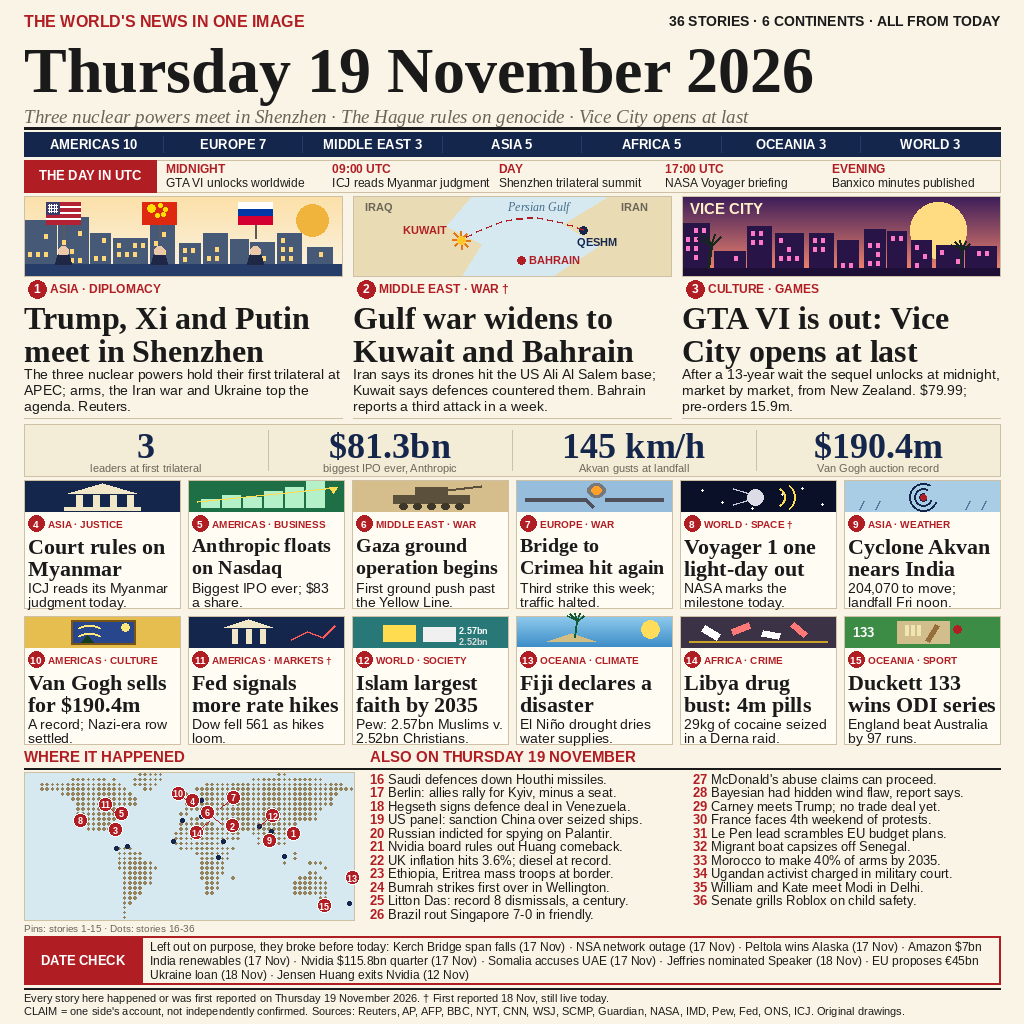
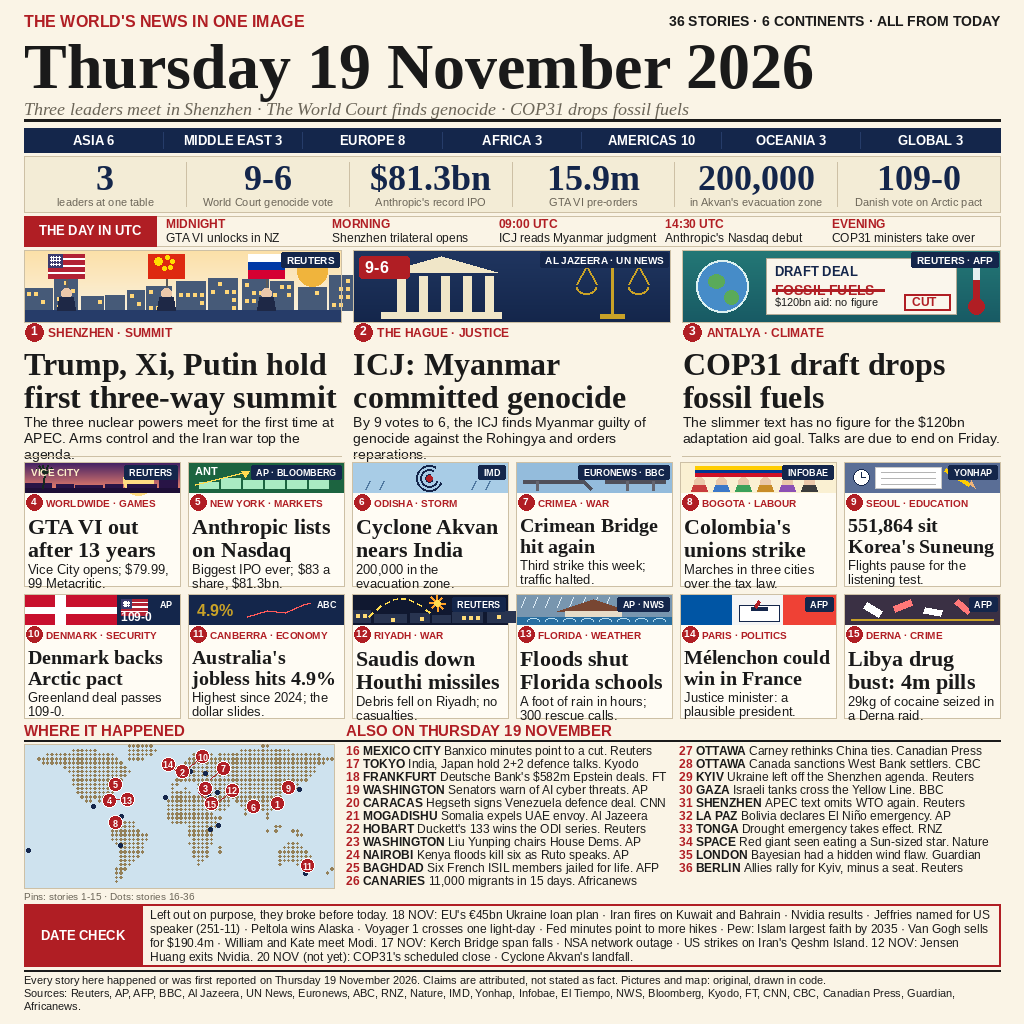
news-image-20261119 v4: rebuild from top-10 audit
36 stories, 15 pictured. COP31 and the ICJ verdict lead; GTA VI first
card. Stale 18 Nov features (Gulf/Kuwait lead, Voyager, Van Gogh, Fed
minutes, Pew) moved to DATE CHECK. New consensus cards: Colombia strike,
Suneung 551,864, Denmark/Greenland 109-0, Australia jobless 4.9%, Saudi
shoot-down, Florida floods, Melenchon, Libya bust. Numbers strip
3 / 9-6 / $81.3bn / 15.9m / 200,000 / 109-0. Per-story source tags.

diff --git a/main.py b/main.py
@@ -1,12 +1,14 @@
 #!/usr/bin/env python3
 """news-image-20261119 entry (Python 3.13, standard library only).
 
-The image is the entry.png beside this file, drawn for Thursday
-19 November 2026; the program copies it to /output/entry.png.
-The gate takes a whole PNG of at most 1 MiB and 1024 by 1024 pixels,
-and the judge sees exactly the bytes copied.
+The entry image is entry.png beside this file: a 1024x1024 newspaper
+front page for Thursday 19 November 2026 with 36 stories, 15 pictured
+cells, a numbers strip, a UTC timeline, a dotted world map and a DATE
+CHECK box. This program copies it to /output/entry.png, which is what
+the gate reads and the judge sees.
 
 Outside the grader's container, MAKEFUN_OUTPUT_DIR stands in for /output:
+
     mkdir -p out && MAKEFUN_OUTPUT_DIR=out python3 main.py
 """
 

diff --git a/README.md b/README.md
@@ -5,10 +5,11 @@
 [![reward](https://make.fun/badge/news-image-20261119/JefaCVC/news-image-20261119/reward.svg)](https://make.fun/bounty/news-image-20261119?utm_source=github&utm_medium=readme&utm_campaign=news-image-20261119)
 
 The world's news in one image. Thursday 19 November 2026: 36 stories,
-6 continents, one front page. Trump, Xi and Putin meet in Shenzhen; the Gulf
-war widens to Kuwait and Bahrain; GTA VI opens Vice City at last. Every story
-happened or was first reported on 19 November 2026, with a DATE CHECK box
-naming the 17-18 November stories deliberately left out.
+6 continents, one front page. Trump, Xi and Putin hold their first three-way
+summit in Shenzhen; the World Court finds Myanmar committed genocide; COP31's
+draft drops fossil fuels and the $120bn aid goal. Every story happened or was
+first reported on 19 November 2026, with a DATE CHECK box naming the 17-18
+November stories deliberately left out.
 
 A program that writes the day's world news as one 1024x1024 image.
 
